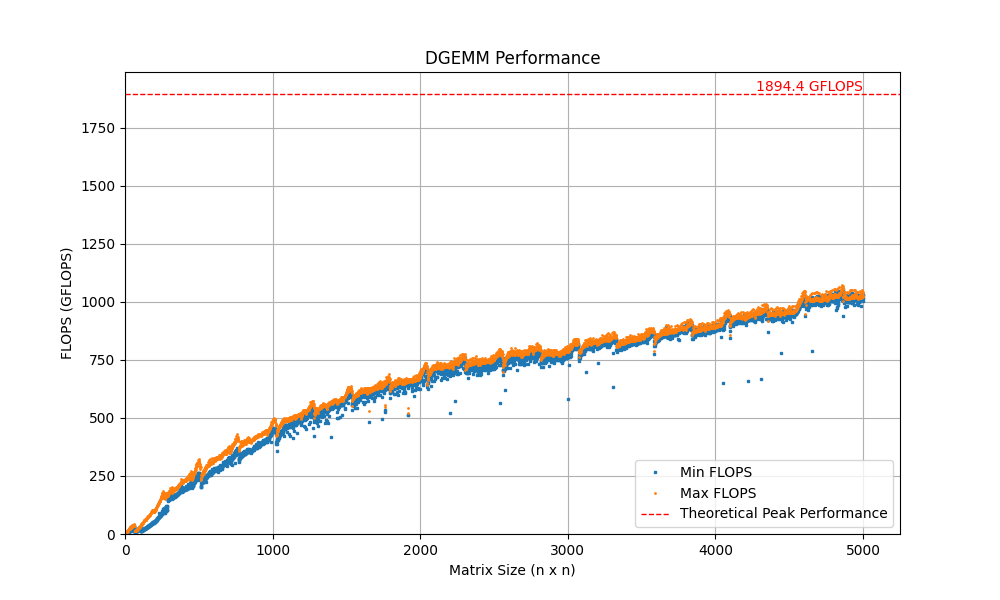
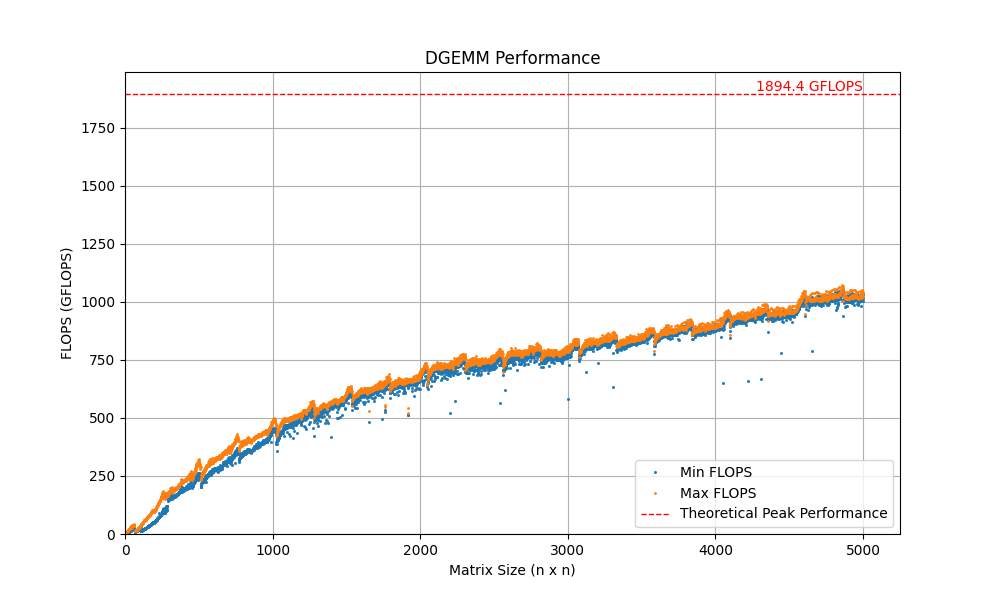
.

diff --git a/dgemm_benchmark/dgemm_benchmark_plot.py b/dgemm_benchmark/dgemm_benchmark_plot.py
@@ -13,7 +13,7 @@ df["minflops"] /= 1000
 
 # プロットの作成
 plt.figure(figsize=(10, 6))
-plt.plot(df["n"], df["minflops"], label="Min FLOPS", marker='s', markersize=2, linestyle='None')
+plt.plot(df["n"], df["minflops"], label="Min FLOPS", marker='s', markersize=1, linestyle='None')
 plt.plot(df["n"], df["maxflops"], label="Max FLOPS", marker='o', markersize=1, linestyle='None')
 
 # Theoretical Peak Performance
